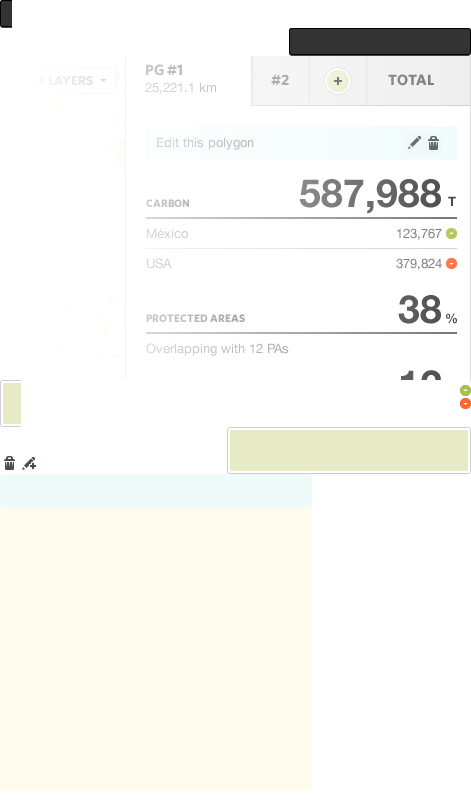
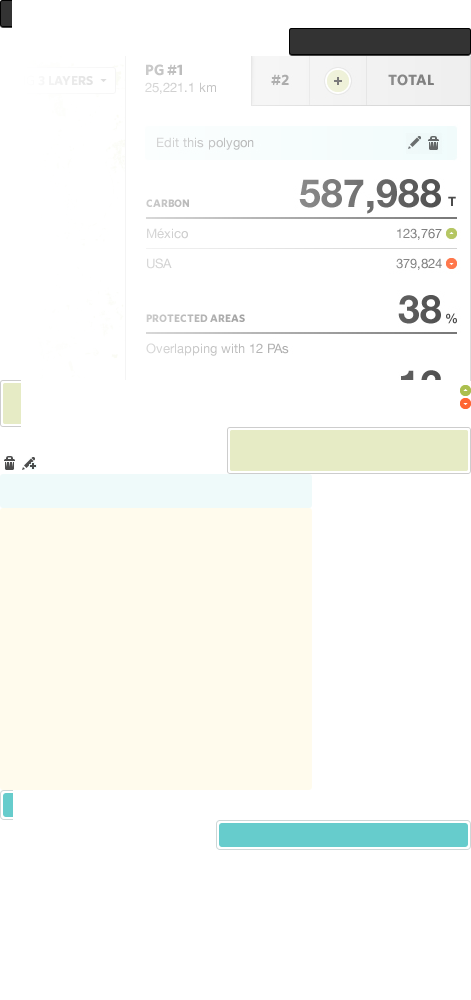
styling right panel

diff --git a/app/public/css/style.css b/app/public/css/style.css
@@ -551,51 +551,86 @@ ul li.enabled {
 #panel #tab_content div.tools {
   width: 100%;
   height: 34px;
+  margin: 10px 0 0 0;
   background: url("/img/sprite.png") 0 -474px no-repeat;
 }
-/* line 61, ../../css_src/partials/_panel.scss */
-#panel #tab_content div.tools a.edit {
+/* line 62, ../../css_src/partials/_panel.scss */
+#panel #tab_content div.tools h2 {
   float: left;
+  padding: 0;
+  margin: 0;
+}
+/* line 63, ../../css_src/partials/_panel.scss */
+#panel #tab_content div.tools span.tools {
+  float: right;
+  margin: 0;
+  padding: 0;
+}
+/* line 65, ../../css_src/partials/_panel.scss */
+#panel #tab_content div.tools p {
+  float: left;
+  width: auto;
+  height: 13px;
   padding: 10px;
+  margin: 0;
   font: normal 13px "Helvetica Neue",Arial;
   color: #666666;
-  text-decoration: none;
 }
-/* line 67, ../../css_src/partials/_panel.scss */
-#panel #tab_content div.tools a.edit:hover {
+/* line 74, ../../css_src/partials/_panel.scss */
+#panel #tab_content div.tools p a {
+  font: bold 13px "Helvetica Neue",Arial;
   color: #333333;
   text-decoration: underline;
 }
-/* line 70, ../../css_src/partials/_panel.scss */
-#panel #tab_content div.tools a.remove {
-  float: right;
-  width: 18px;
+/* line 78, ../../css_src/partials/_panel.scss */
+#panel #tab_content div.tools p a:hover {
+  color: black;
+}
+/* line 82, ../../css_src/partials/_panel.scss */
+#panel #tab_content div.tools a.edit {
+  display: inline-block;
+  vertical-align: top;
+  zoom: 1;
+  width: 16px;
   height: 21px;
-  margin: 7px 10px 0 0;
+  margin: 7px 0 0 0;
   text-indent: -9999px;
   font-size: 0;
   line-height: 0;
-  background: url("/img/sprite.png") 0 -453px no-repeat;
+  background: url("/img/sprite.png") -22px -453px no-repeat;
 }
-/* line 83, ../../css_src/partials/_panel.scss */
+/* line 95, ../../css_src/partials/_panel.scss */
+#panel #tab_content div.tools a.remove {
+  display: inline-block;
+  vertical-align: top;
+  zoom: 1;
+  width: 16px;
+  height: 21px;
+  margin: 7px 14px 0 0;
+  text-indent: -9999px;
+  font-size: 0;
+  line-height: 0;
+  background: url("/img/sprite.png") -2px -453px no-repeat;
+}
+/* line 115, ../../css_src/partials/_panel.scss */
 #panel #tab_content div.no_content {
   width: 312px;
   margin: 0;
 }
-/* line 87, ../../css_src/partials/_panel.scss */
+/* line 119, ../../css_src/partials/_panel.scss */
 #panel #tab_content div.no_content div.inner {
   width: 292px;
   padding: 10px;
   background: url("/img/sprite.png") 0 -508px no-repeat;
 }
-/* line 92, ../../css_src/partials/_panel.scss */
+/* line 124, ../../css_src/partials/_panel.scss */
 #panel #tab_content div.no_content div.inner span.title {
   display: inline-block;
   width: 100%;
   padding: 0 0 2px 0;
   border-bottom: 2px solid #666666;
 }
-/* line 98, ../../css_src/partials/_panel.scss */
+/* line 130, ../../css_src/partials/_panel.scss */
 #panel #tab_content div.no_content div.inner span.title h2 {
   float: left;
   width: auto;
@@ -604,7 +639,7 @@ ul li.enabled {
   font: normal 13px "Helvetica Neue",Arial;
   color: #666666;
 }
-/* line 107, ../../css_src/partials/_panel.scss */
+/* line 139, ../../css_src/partials/_panel.scss */
 #panel #tab_content div.no_content div.inner span.title a.remove {
   float: right;
   width: 18px;
@@ -616,26 +651,26 @@ ul li.enabled {
   line-height: 0;
   background: url("/img/sprite.png") 0 -454px no-repeat;
 }
-/* line 120, ../../css_src/partials/_panel.scss */
+/* line 152, ../../css_src/partials/_panel.scss */
 #panel #tab_content div.no_content div.inner p {
   color: #666666;
 }
-/* line 120, ../../css_src/partials/_panel.scss */
+/* line 152, ../../css_src/partials/_panel.scss */
 #panel #tab_content div.no_content div.inner p.margin {
   margin: 20px 0 0 0;
 }
-/* line 123, ../../css_src/partials/_panel.scss */
+/* line 155, ../../css_src/partials/_panel.scss */
 #panel #tab_content div.no_content span.end {
   width: 312px;
   height: 5px;
   background: url("/img/sprite.png") 0 -785px no-repeat;
 }
-/* line 132, ../../css_src/partials/_panel.scss */
+/* line 164, ../../css_src/partials/_panel.scss */
 #panel #tab_content div.block {
   width: 100%;
   margin: 15px 0 0 0;
 }
-/* line 136, ../../css_src/partials/_panel.scss */
+/* line 168, ../../css_src/partials/_panel.scss */
 #panel #tab_content div.block span.title {
   float: left;
   width: 100%;
@@ -643,7 +678,7 @@ ul li.enabled {
   padding: 0;
   border-bottom: 2px solid #666666;
 }
-/* line 143, ../../css_src/partials/_panel.scss */
+/* line 175, ../../css_src/partials/_panel.scss */
 #panel #tab_content div.block span.title h2 {
   float: left;
   padding: 0;
@@ -651,7 +686,7 @@ ul li.enabled {
   font: bold 11px "WhitneyBold","Myriad Pro";
   color: #333333;
 }
-/* line 151, ../../css_src/partials/_panel.scss */
+/* line 183, ../../css_src/partials/_panel.scss */
 #panel #tab_content div.block span.title p {
   float: right;
   padding: 0;
@@ -659,26 +694,26 @@ ul li.enabled {
   font: bold 39px "Helvetica Neue",Arial;
   color: #333333;
 }
-/* line 158, ../../css_src/partials/_panel.scss */
+/* line 190, ../../css_src/partials/_panel.scss */
 #panel #tab_content div.block span.title p small {
   font-size: 13px;
   padding: 0 0 0 5px;
 }
-/* line 165, ../../css_src/partials/_panel.scss */
+/* line 197, ../../css_src/partials/_panel.scss */
 #panel #tab_content div.block ul {
   width: 100%;
   list-style: none;
   padding: 0;
   margin: 0;
 }
-/* line 171, ../../css_src/partials/_panel.scss */
+/* line 203, ../../css_src/partials/_panel.scss */
 #panel #tab_content div.block ul li {
   float: left;
   width: 100%;
   padding: 7px 0;
   border-bottom: 1px solid #CCCCCC;
 }
-/* line 177, ../../css_src/partials/_panel.scss */
+/* line 209, ../../css_src/partials/_panel.scss */
 #panel #tab_content div.block ul li h5 {
   float: left;
   margin: 0;
@@ -686,7 +721,7 @@ ul li.enabled {
   font: normal 13px "Helvetica Neue",Arial;
   color: #666666;
 }
-/* line 185, ../../css_src/partials/_panel.scss */
+/* line 217, ../../css_src/partials/_panel.scss */
 #panel #tab_content div.block ul li p {
   float: right;
   margin: 0;
@@ -695,25 +730,25 @@ ul li.enabled {
   color: #666666;
   line-height: 13px;
 }
-/* line 193, ../../css_src/partials/_panel.scss */
+/* line 225, ../../css_src/partials/_panel.scss */
 #panel #tab_content div.block ul li p.ok {
   padding: 0 15px 0 0;
   background: url("/img/sprite.png") no-repeat right -384px;
 }
-/* line 194, ../../css_src/partials/_panel.scss */
+/* line 226, ../../css_src/partials/_panel.scss */
 #panel #tab_content div.block ul li p.ko {
   padding: 0 15px 0 0;
   background: url("/img/sprite.png") no-repeat right -397px;
 }
-/* line 197, ../../css_src/partials/_panel.scss */
+/* line 229, ../../css_src/partials/_panel.scss */
 #panel #tab_content div.block ul li.last {
   border: none;
 }
-/* line 198, ../../css_src/partials/_panel.scss */
+/* line 230, ../../css_src/partials/_panel.scss */
 #panel #tab_content div.block ul li:last-child {
   border: none;
 }
-/* line 203, ../../css_src/partials/_panel.scss */
+/* line 235, ../../css_src/partials/_panel.scss */
 #panel #tab_content div.block ul.inline li {
   width: 77px;
   height: 80px;
@@ -721,7 +756,7 @@ ul li.enabled {
   border: none;
   border-right: 1px solid #E5E5E5;
 }
-/* line 210, ../../css_src/partials/_panel.scss */
+/* line 242, ../../css_src/partials/_panel.scss */
 #panel #tab_content div.block ul.inline li h5 {
   float: left;
   width: 100%;
@@ -734,7 +769,7 @@ ul li.enabled {
   background: #EDEDED;
   border-bottom: 1px solid #CCCCCC;
 }
-/* line 223, ../../css_src/partials/_panel.scss */
+/* line 255, ../../css_src/partials/_panel.scss */
 #panel #tab_content div.block ul.inline li p {
   float: right;
   width: 100%;
@@ -746,11 +781,11 @@ ul li.enabled {
   letter-spacing: -1px;
   text-align: center;
 }
-/* line 235, ../../css_src/partials/_panel.scss */
+/* line 267, ../../css_src/partials/_panel.scss */
 #panel #tab_content div.block ul.inline li.last {
   border: none;
 }
-/* line 236, ../../css_src/partials/_panel.scss */
+/* line 268, ../../css_src/partials/_panel.scss */
 #panel #tab_content div.block ul.inline li:last-child {
   border: none;
 }

diff --git a/app/css_src/partials/_panel.scss b/app/css_src/partials/_panel.scss
@@ -56,26 +56,58 @@
   	div.tools {
 	  	width:100%;
 	  	height:34px;
+	  	margin:10px 0 0 0;
 	  	@include background(0,-474px,no-repeat);
 	  	
-	  	a.edit {
-		  	float:left;
+	  	h2 {float:left; padding:0; margin:0}
+	  	span.tools {float:right; margin:0; padding:0; }
+	  	
+	  	p {
+	  		float:left;
+	  		width:auto;
+	  		height:13px;
 		  	padding:10px;
+		  	margin:0;
 		  	font:normal 13px "Helvetica Neue",Arial;		  	
 		  	color:#666666;
-		  	text-decoration:none;
-		  	&:hover {color:#333333; text-decoration:underline}
+
+				a {
+					font:bold 13px "Helvetica Neue",Arial;		  	
+		  		color:#333333;
+		  		text-decoration:underline;
+		  		&:hover {color:black}
+				}
 	  	}
 	  	
-	  	a.remove {
-		  	float:right;
-		  	width:18px;
+	  	a.edit {
+		  	display:inline-block;
+		  	vertical-align:top;
+		  	zoom:1;
+		  	width:16px;
 		  	height:21px;
-		  	margin:7px 10px 0 0;
+		  	margin:7px 0 0 0;
 		  	text-indent:-9999px;
 		  	font-size:0;
 		  	line-height:0;
-		  	@include background(0,-453px,no-repeat);
+		  	@include background(-22px,-453px,no-repeat);
+	  	}
+	  	
+	  	a.remove {
+		  	display:inline-block;
+		  	vertical-align:top;
+		  	zoom:1;
+		  	width:16px;
+		  	height:21px;
+		  	margin:7px 14px 0 0;
+		  	text-indent:-9999px;
+		  	font-size:0;
+		  	line-height:0;
+		  	@include background(-2px,-453px,no-repeat);
+	  	}
+	  	
+	  	a.finish {
+		  	
+		  	span {}
 	  	}
   	}
   	

diff --git a/app/public/index.html b/app/public/index.html
@@ -112,7 +112,7 @@
 		
 		<div class="tools">
 			<h2>
-				<a href="#finish_editing" class="finish">FINISH EDITING</a>
+				<a href="#finish_editing" class="finish"><span>FINISH EDITING</span></a>
 			</h2>
 			<span class="tools">
 				<a href='#edit' class="edit">edit</a>
